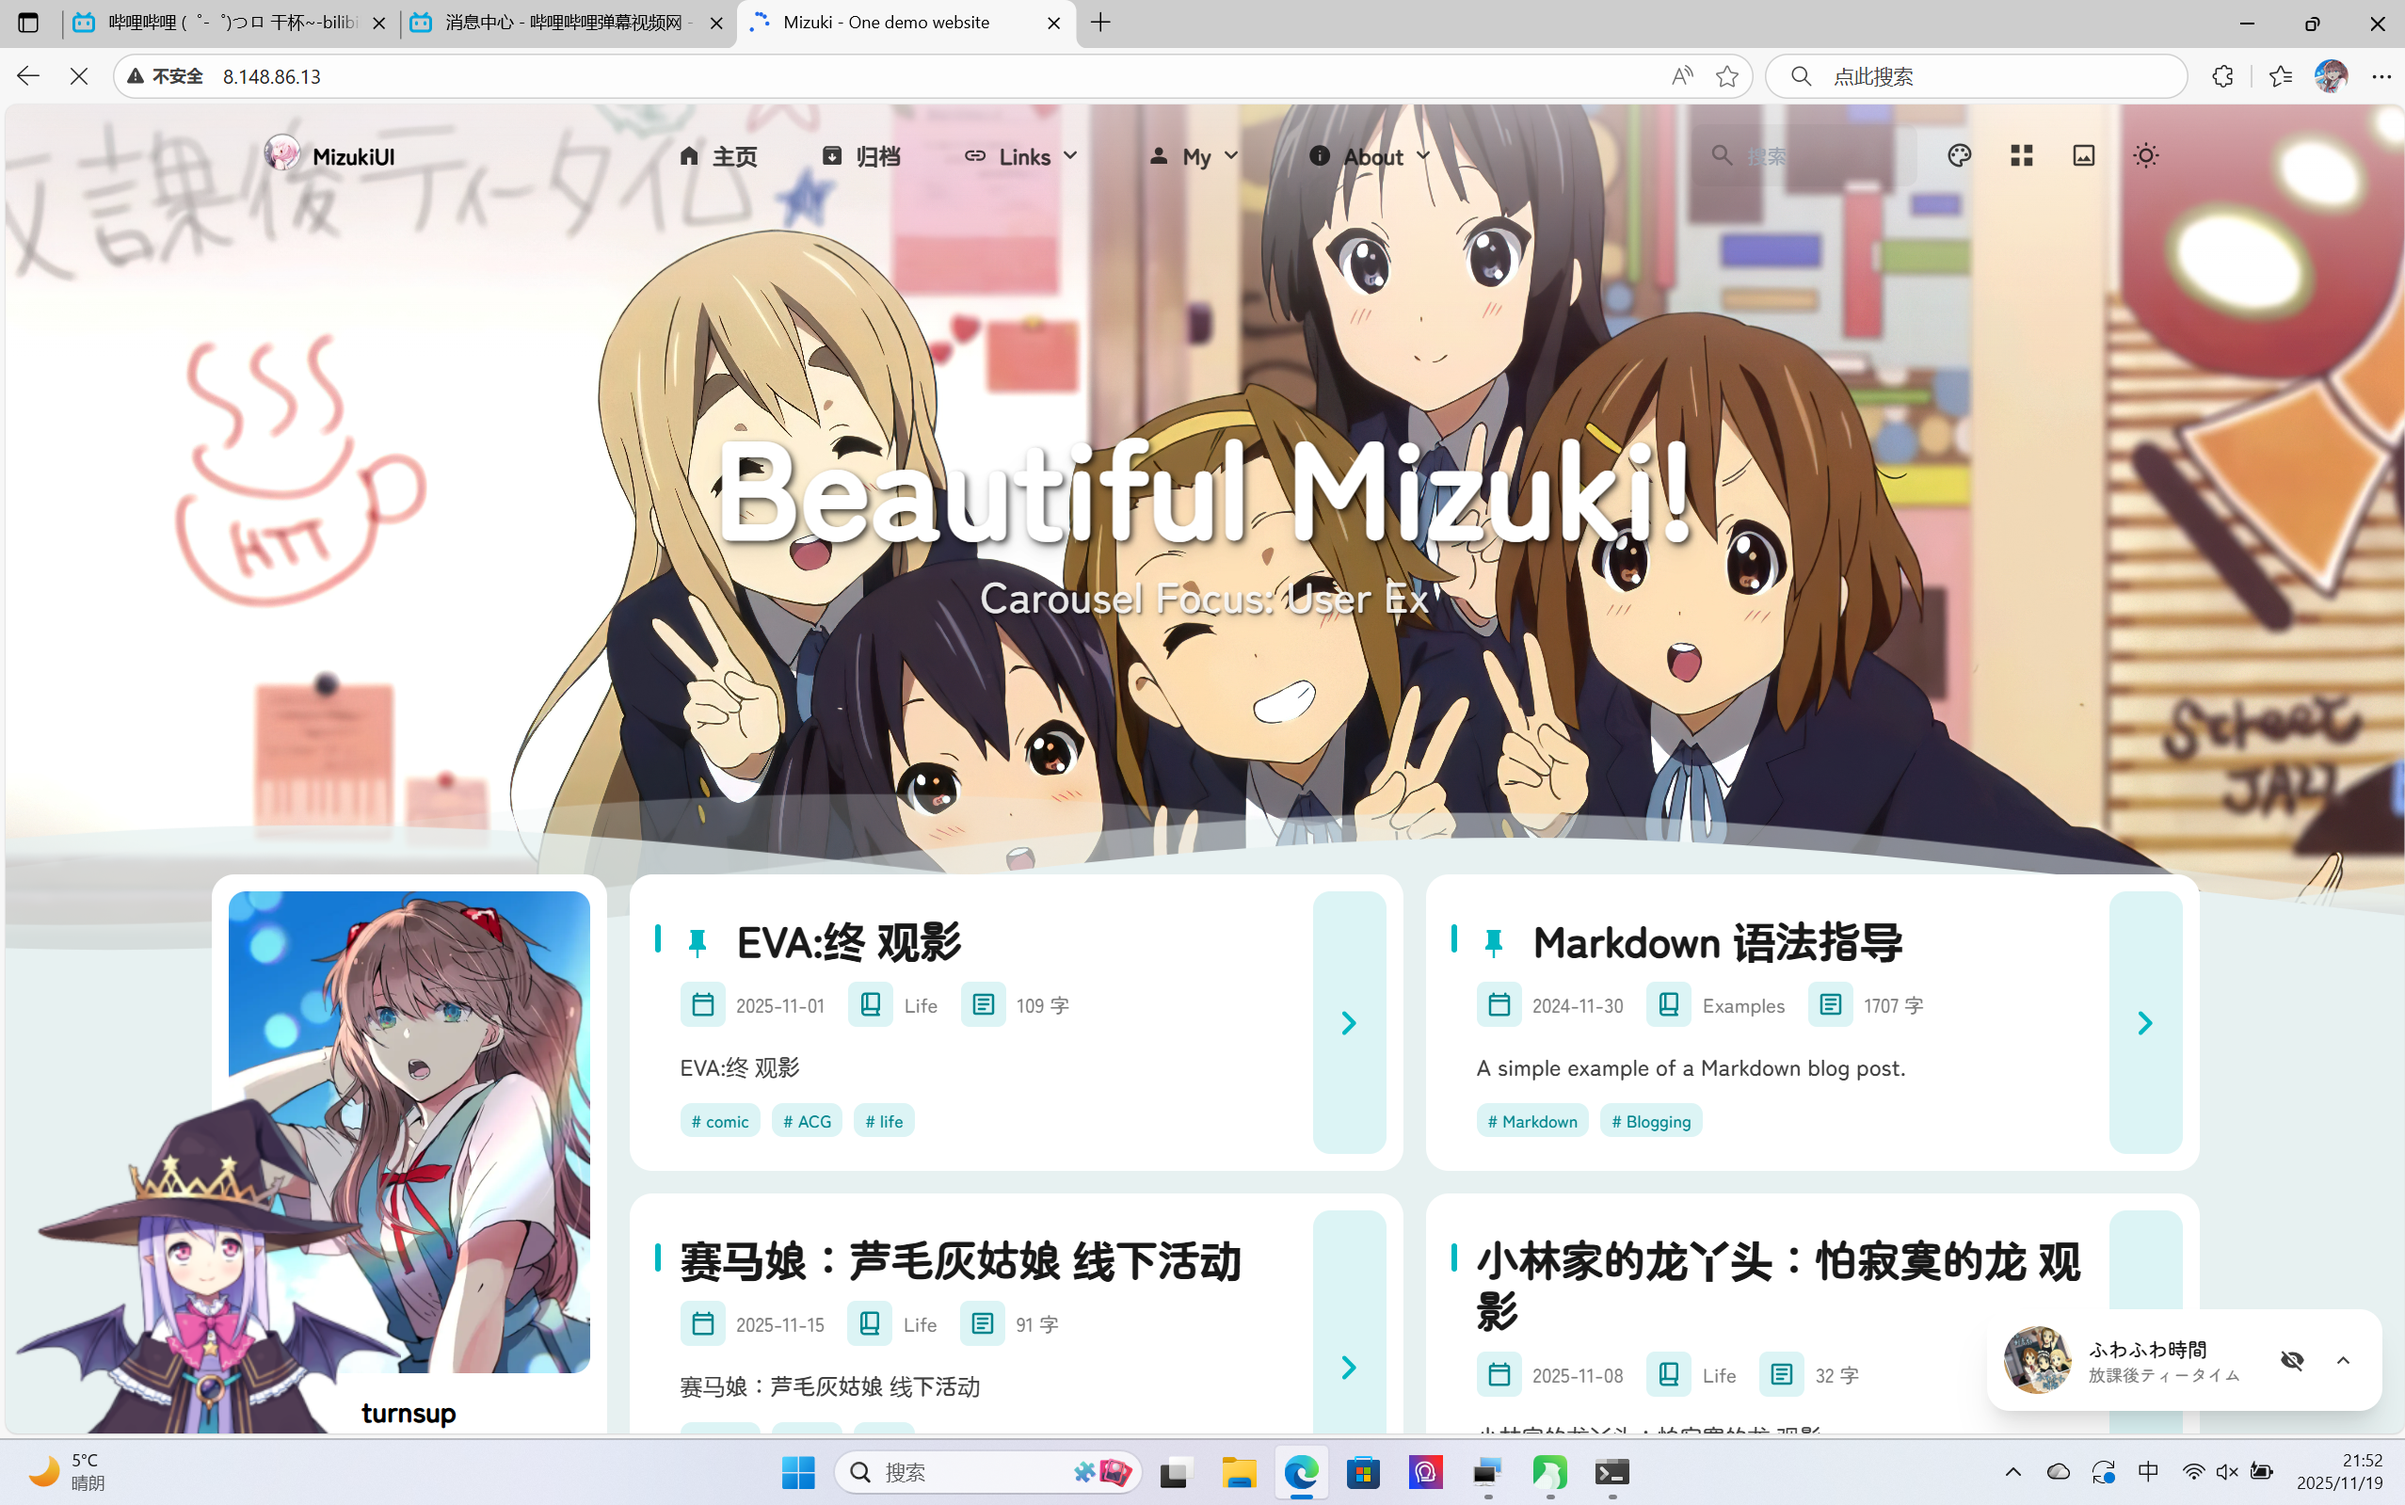
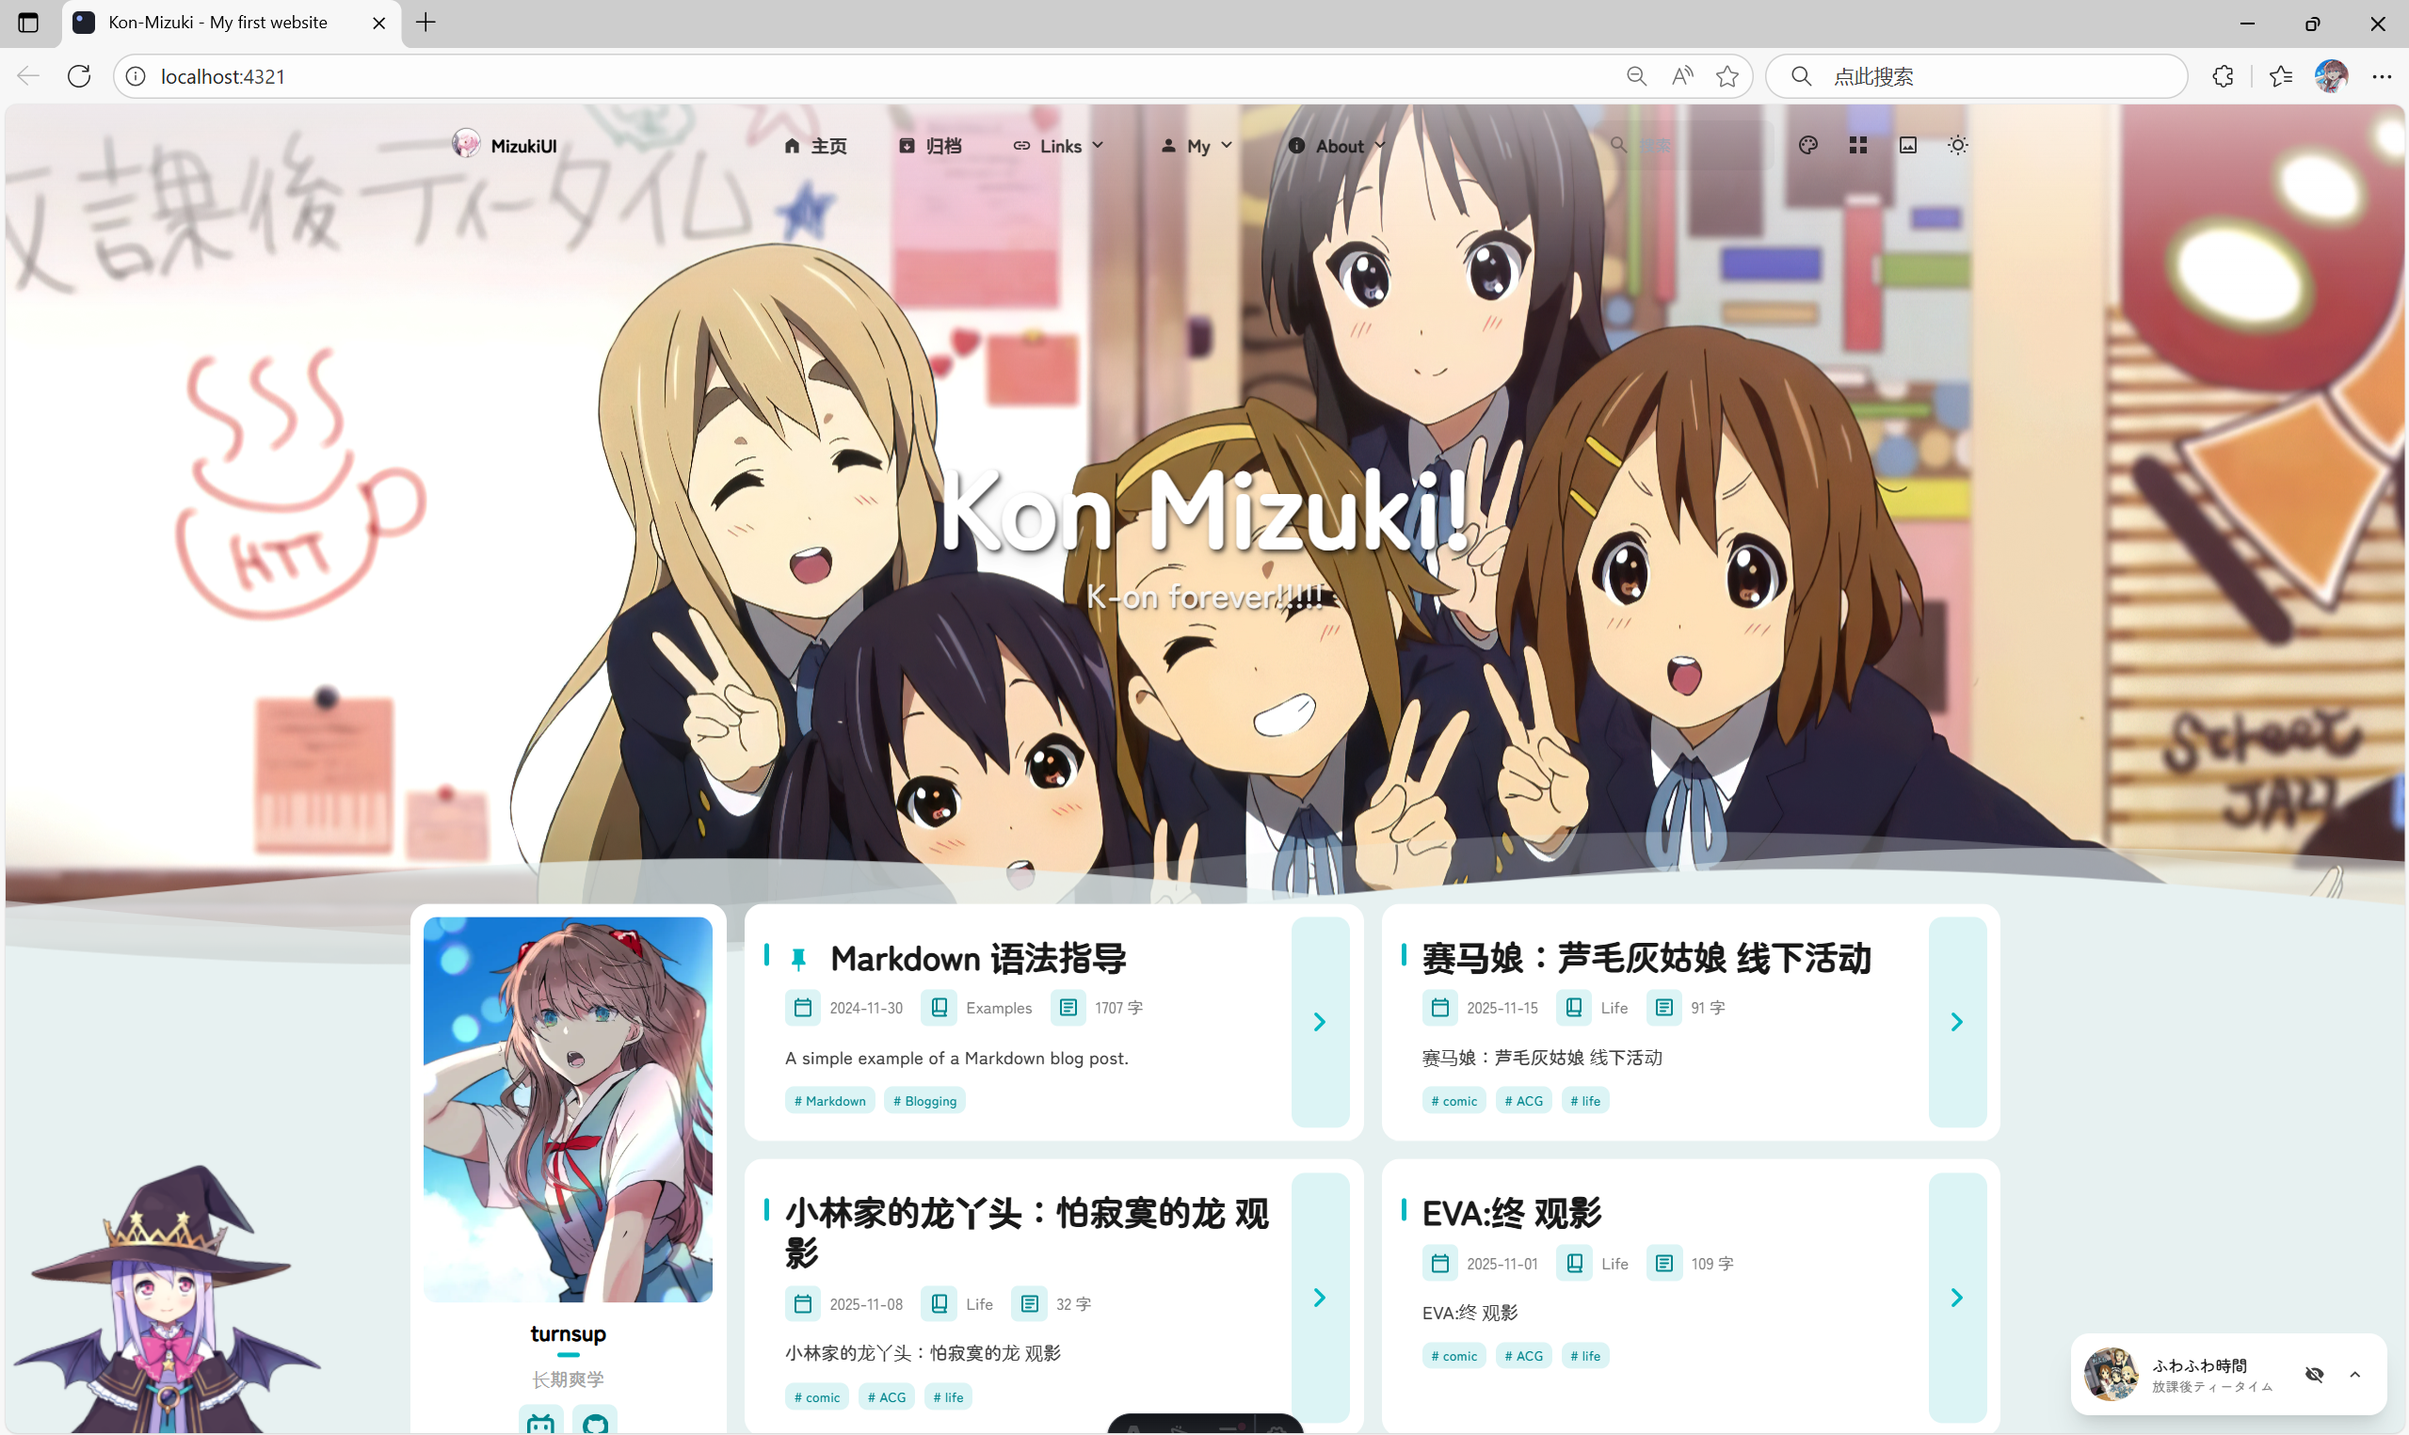
修改样例图

diff --git a/readme.md b/readme.md
@@ -6,7 +6,8 @@
 <span style="background-color:#2ecc71; color:white; padding:2px 6px; border-radius:4px;">Astro=5.15.3</span>
 <span style="background-color:#FFD700; color:white; padding:2px 6px; border-radius:4px;">TypeScript=5.9.3 </span>
 <span style="background-color:#e74c3c; color:white; padding:2px 6px; border-radius:4px;">npm=11.6.2</span>
-
+### 样例 K-on Mizuku
+![网站样例](/sample/kon.png "kon")
 
 ## 🌼本地运行
 
